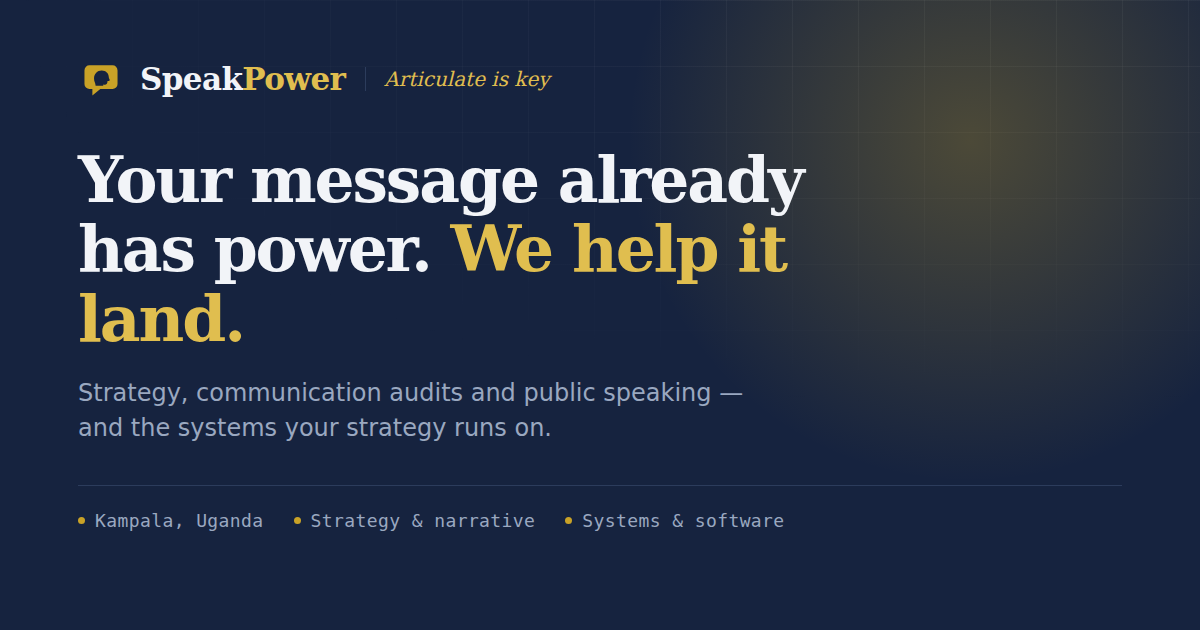
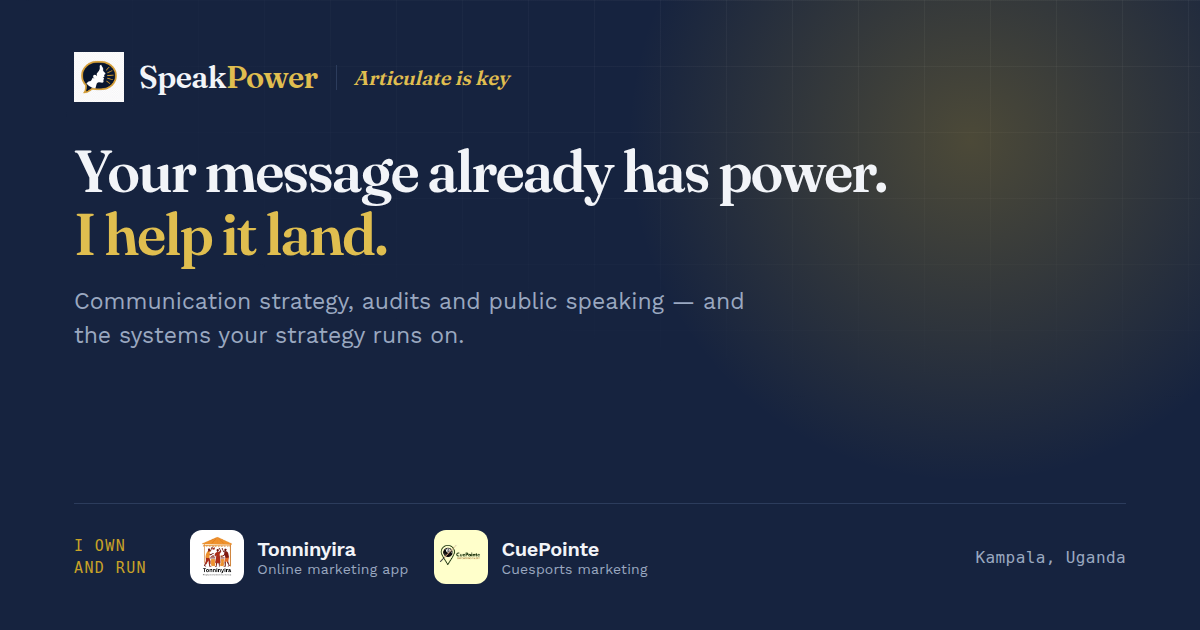
Rebuild the social share card around the real brand assets
The card still said "We help it land" — the homepage now says "I help it
land", and a thumbnail promising a different sentence than the page
delivers is exactly the failure this site sells against.

It also drew the mark as a hand-traced inline SVG approximation. It now
pulls assets/logo-mark.png and both venture logos from assets/, each on a
tile painted its own ground colour as on the site, so the card cannot
drift out of sync with the brand. The bottom strip is now the two
ventures under "I own and run", which is the one thing on this card no
other consultant could put on theirs.

Two rendering notes, both recorded in README because both cost a cycle:

A browser only paints what is inside the viewport, so capturing at
exactly 1200x630 leaves the bottom strip unrendered and the card saves
with a blank band. Render taller, then crop.

Headless Chromium here cannot fetch Google Fonts — document.fonts.size
comes back 0 — so a straight render silently falls back to a generic
serif. This PNG was baked with the woff2 files inlined, so the headline
is genuinely Fraunces.

Claude-Session: https://claude.ai/code/session_019HF3FQtWqUjzxe4Raw8Wtq

diff --git a/tools/og-image.html b/tools/og-image.html
@@ -6,17 +6,28 @@
 <!--
   SOURCE FOR assets/og-image.png
 
-  This is the social-share card. To regenerate it without any local tooling:
+  This is the social-share card — the thumbnail that appears when the site is
+  linked on LinkedIn, WhatsApp, X, Slack or in a Google result. To regenerate
+  it without any local tooling:
+
     1. Open this file in a browser (GitHub Pages serves it at /tools/og-image.html).
-    2. Set the window to exactly 1200 × 630, or screenshot the .card element.
+    2. Set the window to exactly 1200 × 630, or screenshot the page.
     3. Save the result as assets/og-image.png.
 
-  Keep the headline here in sync with the homepage h1 — this card is what
-  people see before they ever reach the site.
+  Three things to keep true:
 
-  Colours are the brand navy and gold taken from the SpeakPower logo. If you
-  have the logo as a transparent PNG, you can replace the inline mark below
-  with <img src="../assets/logo.png"> instead.
+    - The headline must match the homepage h1. This card is what people see
+      before they ever reach the site, and a card that promises a different
+      sentence than the page delivers is the exact failure the site sells
+      against.
+    - 1200 × 630 exactly. Every platform crops to roughly that ratio; anything
+      else gets cut, usually through the headline.
+    - Nothing important within ~60px of any edge. LinkedIn and WhatsApp crop
+      more aggressively than the spec suggests, and the venture strip below is
+      the first thing to lose.
+
+  The mark and both venture logos are the real files from assets/, not
+  approximations — so this card cannot drift out of sync with the brand.
 -->
 <link rel="preconnect" href="https://fonts.googleapis.com">
 <link rel="preconnect" href="https://fonts.gstatic.com" crossorigin>
@@ -26,8 +37,10 @@
   html, body { width: 1200px; height: 630px; }
   body {
     position: relative;
+    display: flex;
+    flex-direction: column;
     overflow: hidden;
-    padding: 56px 78px;
+    padding: 52px 74px 46px;
     background: #16233f;
     color: #f2f4f8;
     font-family: "Work Sans", "DejaVu Sans", "Liberation Sans", Arial, sans-serif;
@@ -53,18 +66,18 @@
 
   /* --- Brand bar --- */
   .brandbar {
-    display: flex; align-items: center; gap: 16px;
-    margin-bottom: 44px;
+    display: flex; align-items: center; gap: 15px;
+    margin-bottom: 38px;
   }
-  .mark { width: 46px; height: 46px; flex: none; }
+  .mark { width: 50px; height: 50px; flex: none; display: block; }
   .wordmark {
     font-family: "Fraunces", "DejaVu Serif", Georgia, "Times New Roman", serif;
     font-size: 31px; font-weight: 600; letter-spacing: -.6px;
   }
   .wordmark span { color: #e0be4f; }
   .tagline {
-    margin-left: 4px;
-    padding-left: 18px;
+    margin-left: 3px;
+    padding-left: 17px;
     border-left: 1px solid #2c3c5c;
     font-family: "Fraunces", "DejaVu Serif", Georgia, serif;
     font-style: italic;
@@ -73,39 +86,65 @@
   }
 
   /* --- Headline --- */
+  /* Two lines, not three. 630px is a hard ceiling and the venture strip is
+     anchored to the bottom of it, so a third headline line pushes the strip
+     off the card entirely. */
   h1 {
     font-family: "Fraunces", "DejaVu Serif", Georgia, "Times New Roman", serif;
-    font-size: 63px;
+    font-size: 58px;
     font-weight: 600;
-    line-height: 1.1;
-    letter-spacing: -2.1px;
-    max-width: 19ch;
+    line-height: 1.08;
+    letter-spacing: -2px;
+    max-width: 22ch;
   }
   h1 em { font-style: normal; color: #e0be4f; }
 
   .sub {
-    margin-top: 22px;
-    font-size: 24px;
+    margin-top: 20px;
+    font-size: 23px;
     line-height: 1.45;
     color: #9aa8c0;
-    max-width: 46ch;
+    max-width: 48ch;
   }
 
-  /* --- Footer strip --- */
+  /* --- Venture strip ------------------------------------------------------
+     The differentiator, and the reason this card is not interchangeable with
+     any other consultant's: two marketing products, owned and running. Each
+     logo sits on a tile painted its own ground colour, exactly as on the site,
+     so the artwork keeps its own world against the navy. */
   .foot {
-    display: flex; align-items: center; gap: 30px;
-    margin-top: 40px;
-    padding-top: 24px;
+    display: flex; align-items: center; gap: 26px;
+    margin-top: auto;
+    padding-top: 26px;
     border-top: 1px solid #2c3c5c;
+  }
+  .owns {
     font-family: ui-monospace, "DejaVu Sans Mono", Menlo, Consolas, monospace;
-    font-size: 18px;
+    font-size: 15px;
+    letter-spacing: 1.4px;
+    text-transform: uppercase;
+    color: #c9a227;
+    max-width: 10ch;
+    line-height: 1.5;
+  }
+  .vent { display: flex; align-items: center; gap: 13px; }
+  .vent img {
+    width: 54px; height: 54px; flex: none;
+    padding: 4px; border-radius: 12px; object-fit: contain;
+    background: var(--tile, #fff);
+  }
+  .vent b  { display: block; font-size: 20px; font-weight: 600; letter-spacing: -.3px; }
+  .vent i  {
+    display: block; font-style: normal; font-size: 14px; color: #9aa8c0;
+    letter-spacing: .2px;
+  }
+  .place {
+    margin-left: auto;
+    font-family: ui-monospace, "DejaVu Sans Mono", Menlo, Consolas, monospace;
+    font-size: 16px;
     letter-spacing: .4px;
     color: #9aa8c0;
-  }
-  .foot b { display: flex; align-items: center; gap: 10px; font-weight: 400; }
-  .foot b::before {
-    content: ""; width: 7px; height: 7px; border-radius: 50%;
-    background: #c9a227;
+    white-space: nowrap;
   }
 </style>
 </head>
@@ -114,27 +153,33 @@
   <div class="glow"></div>
 
   <div class="row brandbar">
-    <svg class="mark" viewBox="0 0 64 64" aria-hidden="true">
-      <path fill="#c9a227"
-            d="M16 13h32a7 7 0 0 1 7 7v19a7 7 0 0 1-7 7H31l-11 9v-9h-4a7 7 0 0 1-7-7V20a7 7 0 0 1 7-7z"/>
-      <path fill="#16233f"
-            d="M24.5 41.5c0-4-2.2-5.6-2.2-10.2 0-6.2 4.6-11 10.6-11 5.8 0 9.9 4 9.9 9 0 2.4 1.9 3.6 1.2 4.7-.5.8-1.6.9-2.9.9-.1 3.4-1.2 5.2-3.8 5.2-.9 0-1.6-.1-2.2-.3v1.7z"/>
-    </svg>
+    <img class="mark" src="../assets/logo-mark.png" alt="" width="160" height="160">
     <span class="wordmark">Speak<span>Power</span></span>
     <span class="tagline">Articulate is key</span>
   </div>
 
   <div class="row">
-    <h1>Your message already has power. <em>We help it land.</em></h1>
+    <h1>Your message already has power. <em>I help it land.</em></h1>
     <p class="sub">
-      Strategy, communication audits and public speaking — and the systems your strategy runs on.
+      Communication strategy, audits and public speaking &mdash; and the systems
+      your strategy runs on.
     </p>
   </div>
 
   <div class="row foot">
-    <b>Kampala, Uganda</b>
-    <b>Strategy &amp; narrative</b>
-    <b>Systems &amp; software</b>
+    <span class="owns">I own and run</span>
+
+    <span class="vent">
+      <img src="../assets/tonninyira-logo.webp" style="--tile:#ffffff" alt="" width="320" height="320">
+      <span><b>Tonninyira</b><i>Online marketing app</i></span>
+    </span>
+
+    <span class="vent">
+      <img src="../assets/cuepointe-logo.webp" style="--tile:#ffffcb" alt="" width="320" height="320">
+      <span><b>CuePointe</b><i>Cuesports marketing</i></span>
+    </span>
+
+    <span class="place">Kampala, Uganda</span>
   </div>
 </body>
 </html>

diff --git a/README.md b/README.md
@@ -207,14 +207,37 @@ To move to a custom domain:
 
 ## Regenerating the share card
 
-`assets/og-image.png` is what appears when a link to the site is shared. To
-update it after a copy change:
+`assets/og-image.png` is the thumbnail that appears when a link to the site is
+shared on LinkedIn, WhatsApp, X or Slack, and in some Google results. To update
+it after a copy change:
 
-1. Edit `tools/og-image.html` — it is a standalone 1200 × 630 page.
-2. Open it in a browser and screenshot it at exactly 1200 × 630.
-3. Save over `assets/og-image.png`.
+1. Edit `tools/og-image.html` — it is a standalone 1200 × 630 page that pulls in
+   the real `assets/logo-mark.png` and both venture logos, so it cannot drift
+   out of sync with the brand.
+2. Open it in a browser, **make the window taller than 630px**, and screenshot
+   the page.
+3. Crop to exactly 1200 × 630 from the top and save over `assets/og-image.png`.
 
-Keep the headline in that file matching the homepage `<h1>`.
+Step 2 is not fussiness. A browser only paints what is inside the viewport, so
+capturing at exactly 1200 × 630 leaves the bottom strip — the venture logos —
+unrendered, and the saved card comes out with a blank band across the bottom.
+
+**Keep the headline matching the homepage `<h1>`.** This card is what people see
+before they ever reach the site, and a thumbnail promising a different sentence
+than the page delivers is the exact failure this site sells against.
+
+### Sizes, if you ever need a different thumbnail
+
+| Where | Size | Notes |
+|---|---|---|
+| Link preview (this card) | 1200 × 630 | Used by LinkedIn, WhatsApp, X, Slack, Facebook |
+| YouTube | 1280 × 720 | Under 2 MB |
+| Blog header | 1600 × 900 | Blogger scales it down |
+| Square (avatar, Instagram) | 1080 × 1080 | Use the logo mark, not the lockup |
+
+Anything important stays ~60px clear of every edge: several platforms crop more
+aggressively than the spec suggests, and the bottom strip is the first thing to
+go.
 
 ---
 
